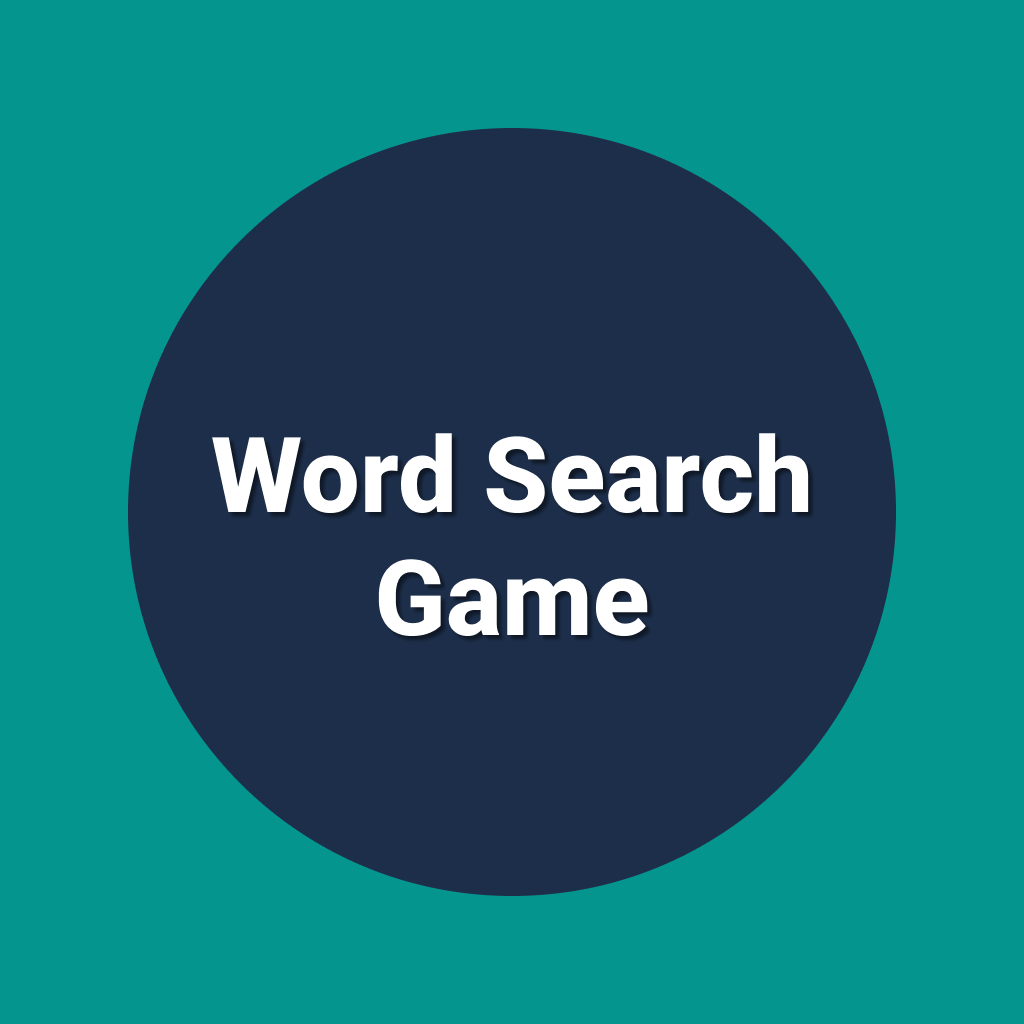
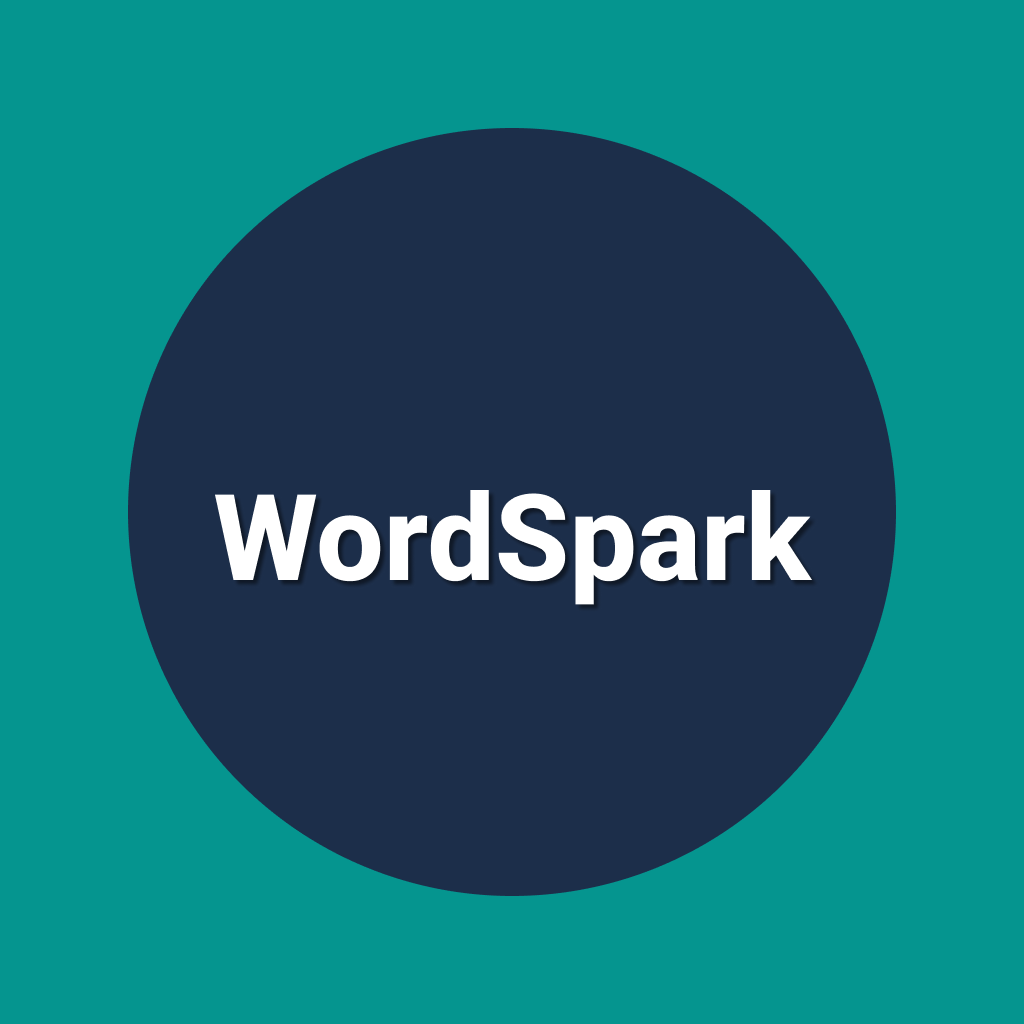
Updated the project according to appstore suggestions

Changed region(s): [[0.1875, 0.4062, 0.8125, 0.625]]

diff --git a/modules/shared/components/helpers.ts b/modules/shared/components/helpers.ts
@@ -45,7 +45,7 @@ export async function openBrowser(
 export async function shareMyApp() {
   try {
     Share.share({
-      message: `Download Word Search Game today and make word learning an enjoyable and rewarding experience. Whether you're training your brain, learning new words, or just passing the time, this app offers something for everyone.
+      message: `Download WordSpark now and make every word count!
       \nGoogle Play Store link: https://play.google.com/store/apps/details?id=${
         global?.androidPackageName ?? staticAndroidPackageName
       }

diff --git a/app/(app)/init-game/index.tsx b/app/(app)/init-game/index.tsx
@@ -174,7 +174,7 @@ function InitGameScreen() {
   return (
     <YStack flex={1} backgroundColor={"$primary"}>
       <ScrollHeader
-        title={languageData.word_search_game}
+        title={languageData.initialize_game}
         backgroundColor={"$primary"}
         rightElement={
           <TouchableScale

diff --git a/app-config/app.config.beta.js b/app-config/app.config.beta.js
@@ -1,5 +1,5 @@
 module.exports = {
-  name: "Word Search Game",
+  name: "WordSpark",
   scheme: "wordsearchgame",
   icon: "./assets/icon.png",
   web: { favicon: "./assets/favicon.png" },

diff --git a/app-config/app.config.dev.js b/app-config/app.config.dev.js
@@ -1,5 +1,5 @@
 module.exports = {
-  name: "Word Search Game",
+  name: "WordSpark",
   scheme: "wordsearchgame",
   icon: "./assets/icon.png",
   web: { favicon: "./assets/favicon.png" },

diff --git a/app-config/app.config.prod.js b/app-config/app.config.prod.js
@@ -1,5 +1,5 @@
 module.exports = {
-  name: "Word Search Game",
+  name: "WordSpark",
   scheme: "wordsearchgame",
   icon: "./assets/icon.png",
   web: { favicon: "./assets/favicon.png" },

diff --git a/README.md b/README.md
@@ -1,4 +1,4 @@
-Word Search Game
+WordSpark: Brain Booster
 
 (Must)TODO items for launch:
 
@@ -147,9 +147,9 @@ To make build: Local for test without server:
         Change the version number according to previous version platform wise in App.json and package.json. For android change versionCode also.
 
     Current Versions Details:
-        Android: 2.0.0
-        Android versionCode: 2
-        iOS: 2.0.0
+        Android: 3.0.0
+        Android versionCode: 3
+        iOS: 3.0.0
 
     In Future (Second Phase):
         Enable code tampering.
